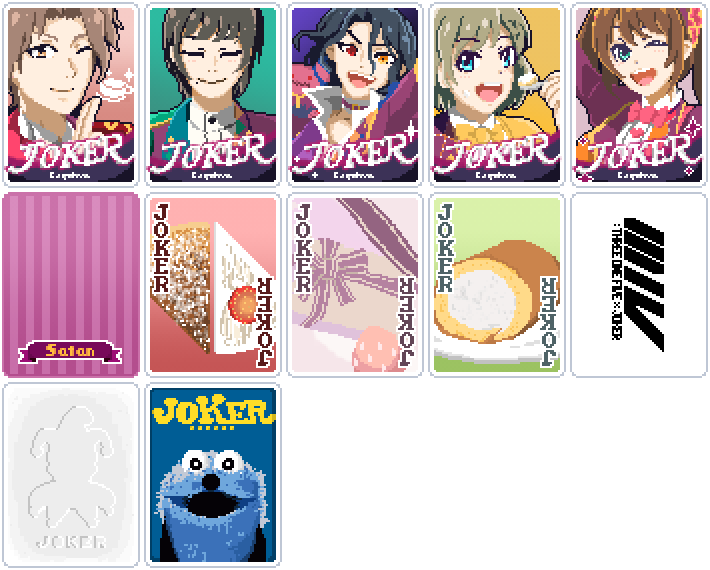
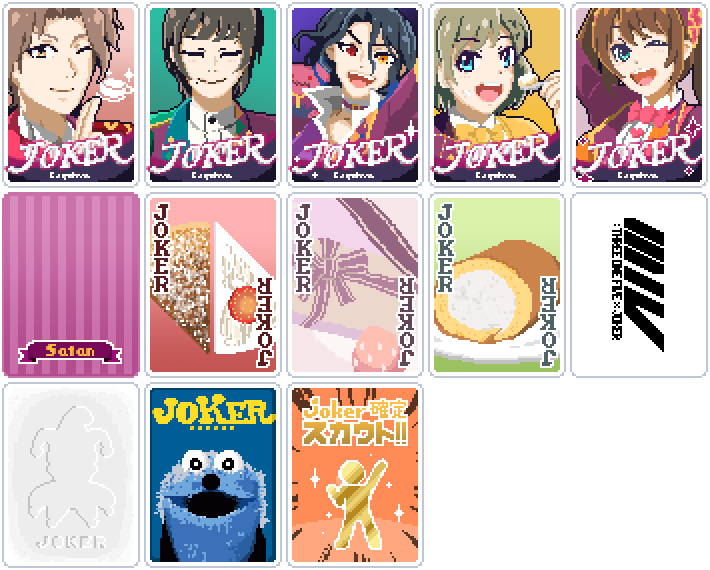
Add Goldpeople to exclude Commons from native Buffoon Packs

Changed region(s): [[0.4028, 0.6561, 0.5887, 1.0]]

diff --git a/tests/release.py b/tests/release.py
@@ -26,7 +26,7 @@ with tempfile.TemporaryDirectory(prefix='cafetro-release-') as directory:
     with ZipFile(archive) as package:
         assert package.testzip() is None
         paths = package.namelist()
-        assert len(paths) == len(set(paths)) == 33 + len(optional)
+        assert len(paths) == len(set(paths)) == 35 + len(optional)
         assert all(path.startswith('Cafetro/') and '..' not in Path(path).parts for path in paths)
         assert not any(part in {'art', 'docs', 'tests', 'tools', 'previews', '__pycache__'}
                        for path in paths for part in Path(path).parts)
@@ -64,7 +64,7 @@ with tempfile.TemporaryDirectory(prefix='cafetro-release-') as directory:
         assert(registered.challenges.finale:unlocked() == false)
     ''')
     definitions = lua.globals().registered
-    assert len(list(definitions.jokers.items())) == 12
+    assert len(list(definitions.jokers.items())) == 13
     assert len(list(definitions.challenges.items())) == 6
     assert len(list(definitions.skins.items())) == 4
     for _, atlas in definitions.atlases.items():

diff --git a/tests/run.py b/tests/run.py
@@ -28,7 +28,7 @@ for directory in (ROOT, TESTS):
     for path in directory.rglob('*.lua'):
         syntax.execute('assert(loadfile(...))', str(path))
 print('Lua 5.1 syntax: all runtime and test files passed')
-for name in ('contracts.lua', 'cake_set.lua', 'chocolate_spacial.lua', 'challenges.lua', 'deck_skins.lua'):
+for name in ('contracts.lua', 'cake_set.lua', 'goldpeople.lua', 'chocolate_spacial.lua', 'challenges.lua', 'deck_skins.lua'):
     run_lua(name)
 
 metadata = json.loads((ROOT / 'Cafetro.json').read_text(encoding='utf-8'))
@@ -36,7 +36,7 @@ assert metadata['name'] == 'Cafetro!'
 assert metadata['id'] == 'CafeParade' and metadata['prefix'] == 'cp'
 assert (ROOT / metadata['main_file']).is_file()
 palette = json.loads((PROJECT / 'art/COLOR_PALETTE.json').read_text(encoding='utf-8'))
-assert len(palette['jokers']) == 12
+assert len(palette['jokers']) == 13
 columns = palette['atlas_columns']
 assert columns == 5
 for index, spec in enumerate(palette['jokers']):

diff --git a/tools/build_release.py b/tools/build_release.py
@@ -10,7 +10,7 @@ from zipfile import ZIP_DEFLATED, ZipFile, ZipInfo
 ROOT = Path(__file__).resolve().parents[1]
 RUNTIME_FILES = (
     'Cafetro.json', 'main.lua', 'config.lua', 'common.lua', 'badges.lua',
-    'cake_set.lua', 'deck_skins.lua', 'README.txt',
+    'cake_set.lua', 'goldpeople.lua', 'deck_skins.lua', 'README.txt',
     'challenges/member_challenges.lua',
     'localization/ja.lua', 'localization/en-us.lua',
 )

diff --git a/docs/TEST_PLAN.md b/docs/TEST_PLAN.md
@@ -5,29 +5,31 @@
 ## 自動検証
 
 - 全ランタイム・fixture・テストのLua 5.1構文。
-- 612件: ジョーカー12種の登録・能力・コピー・再発動・成長演出・状態復元・サタンの枠・日英説明。開発用のお試しライブが通常登録されないことも確認。
+- 627件: ジョーカー13種の登録・能力・コピー・再発動・成長演出・状態復元・サタンの枠・日英説明。開発用のお試しライブが通常登録されないことも確認。
 - 咲の左端が得点対象外・得点対象が空／未提供なら変化・演出・回数消費なし。同じブラインドの次の有効なハンドで発動でき、得点対象の配列順が変わってもプレイした左端を選ぶことを確認。
 - 神谷の同一ブラインド内4ハンド連続報酬、重複評価・コピー・旧セーブ移行、失敗したタロット抽選・満杯・可変確率を確認。サタンの0〜5人時のX2.5〜X3.75、人数減少後と旧成長値の保持、赤枠と末尾の現在値を日英で確認。
 - エンボスの全標準強化・シール／エディションのみの除外・再発動・コピー、スンスンの6限定・得点対象との一致・ストーン除外・コピー・非得点領域の除外、日英の最終行の非公式表記を確認。
 - 162件: ケーキセットのワンペア限定・スート制限だけの解除と復帰、他の無効化原因との共存。
+- 422件: 金人間の標準道化師パック4種限定・MODパック／ショップ除外、所持・売却・デバフ・複数所持、5:1の重み再正規化、重み補正・追加レアリティ・object_weights、禁止・重複・Showman・プールの使い回し、候補枯渇時の非コモン補充と失敗時の禁止状態復元を確認。
 - 140件: Chocolate Spacialの生成条件・容量・予約枠・複数所持とコピー。
 - 401件: ソロお題5種＋最終お題の初期所持と制約、クリア全32通り、プロフィール分離、5つ目のクリア直後の解放、日英ルール、初期6枠。
 - MOD説明の日英ローカライズと複数行、生成・作者クレジット、5人＋サタンだけのCafeParadeカテゴリ、ほかのカードとMOD一覧のCafetro!表記を確認。
 - スキン4スート・2配色、画像全52セル。統合元のトランプ4枚をSHA-256で照合。
 - nearest/lanczos、1x/2xのアトラス全画素・透明度・サタン前景・MODアイコン。配布する追跡済み画像とnearest再生成結果も一致。
-- 配布ZIPの33ファイル、CRC、原稿・テスト・資料・仮プレビューの除外、SHA-256、再現可能なZIP内容、必要ファイル欠落時の失敗。
-- **展開した配布ZIPだけ**を読み、ジョーカー12種・お題6種・スキン4種と全アトラスを登録。内部IDを保持し、追加の開発ファイルに依存しないことを確認。
+- 配布ZIPの35ファイル、CRC、原稿・テスト・資料・仮プレビューの除外、SHA-256、再現可能なZIP内容、必要ファイル欠落時の失敗。
+- **展開した配布ZIPだけ**を読み、ジョーカー13種・お題6種・スキン4種と全アトラスを登録。内部IDを保持し、追加の開発ファイルに依存しないことを確認。
 - 作者のREADME.txtが必ず同梱され、旧SAKI_CARDS_NOTICE.txtが入らないことを確認。追加のMarkdown READMEも同梱できる。
 
-ロジックは合計1,315アサーション。モックはゲームの描画・セーブ形式・Steamoddedディスパッチ全体を再現しません。ZIPの読み込み確認も、実ゲーム起動の代用ではありません。
+ロジックは合計1,752アサーション。モックはゲームの描画・セーブ形式・Steamoddedディスパッチ全体を再現しません。ZIPの読み込み確認も、実ゲーム起動の代用ではありません。
 
 ## ユーザー側での実ゲーム確認
 
-1. 旧版と二重導入せず、`Cafetro` フォルダで起動。表示名Cafetro!、新アイコン、ジョーカー12枚、日英の説明・作者表記を確認。
+1. 旧版と二重導入せず、`Cafetro` フォルダで起動。表示名Cafetro!、新アイコン、ジョーカー13枚、日英の説明・作者表記を確認。
 2. 通常ランと既存セーブを確認。内部ID・prefix・カードキーは維持しているが、実際の保存形式との互換はこの環境では未確認。
 3. 咲の左端・未強化・得点対象限定Makeup!→ワイルド→得点、東雲の得点後成長、ケーキセットのスート制限解除、生成・再発動・サタンの枠を確認。
 4. ソロ5種の開始状態と制限、同じプロフィールで5種クリアしたときの最終お題解放、再起動・別プロフィールでの状態を確認。
 5. 最終お題の6人・6枠・2ハンド・1ディスカード・要求スコア・報酬制限と、クリア可能性・難易度を確認。
-6. スキンの通常色／ハイコントラスト、1x／2x、設定保存と標準スキンへの復帰を確認。
+6. 金人間を所持して通常・ジャンボ・メガの道化師パックを開き、コモンが出ないことを確認。売却後の通常抽選、他MODパック・ショップの抽選、日英の短い説明文も確認。
+7. スキンの通常色／ハイコントラスト、1x／2x、設定保存と標準スキンへの復帰を確認。
 
 旧版の検証記録は `history/TEST_RESULTS.md` に保存しています。

diff --git a/docs/CARD_SPEC.md b/docs/CARD_SPEC.md
@@ -3,7 +3,7 @@
 現行の数値は `Cafetro/config.lua` に集約する。v1.1.0では依頼に基づき神谷とサタンを上方調整。比較資料と判断理由は `BALANCE_NOTES.md` を参照。
 
 ## 共通定義
-- 追加するカードは `kamiya` / `shinonome` / `aslan` / `makio` / `saki` / `satan` / `cake_set` / `chocolate_spacial` / `plain_cakeroll` / `three_one_five` / `embossing` / `sunsun` の12種。表示名 `Cafetro!`、内部MOD ID `CafeParade`。内部IDの完全形はSteamoddedのprefix規則に従って衝突しないものにする。
+- 追加するカードは `kamiya` / `shinonome` / `aslan` / `makio` / `saki` / `satan` / `cake_set` / `chocolate_spacial` / `plain_cakeroll` / `three_one_five` / `embossing` / `sunsun` / `goldpeople` の13種。表示名 `Cafetro!`、内部MOD ID `CafeParade`。内部IDの完全形はSteamoddedのprefix規則に従って衝突しないものにする。
 - 「Café Paradeメンバー」は **神谷・東雲・アスラン・巻緒・咲の5種のみ**。サタンは6枚目だがメンバー数には数えない。異なるメンバーを数えるときは種類ごとに最大1、同名2枚を所持しても1人。
 - 「所持している」はジョーカー領域に存在する有効（非debuff）のカードを意味する。Blueprint / Brainstormによる能力コピーは所持人数を増やさない。デッキにカードがあってもジョーカー領域になければ対象外。
 - 「得点したカード」はスコア計算に参加したカード。捨て札、得点に不参加の手札、手札に残るスチールカード等は対象外。
@@ -147,3 +147,14 @@
 v1.2.0は原作のEven Steven／Hack／Hanging Chadと同様、カードの得点ごとの効果と標準の追加再発動を使う。独自の得点ループや追加の補足ツールチップは設けない。
 
 表記参照: 原作の[日本語localization](https://github.com/Jofr3/balatro-source/blob/main/localization/ja.lua)および[英語localization](https://github.com/Jofr3/balatro-source/blob/main/localization/en-us.lua)のEven Steven・Hack・Hanging Chad（公開再掲）。実機での文字の収まりは未確認。
+
+## 13. 金人間 / Goldpeople
+
+- レア・$8。画像は `art/source/goldpeople.png`（アップロードされたGoldpeople_joker.pngと同一）。
+- 所持中、原作の道化師パック4種（`p_buffoon_normal_1/2`、`p_buffoon_jumbo_1`、`p_buffoon_mega_1`）の生成からコモンを除外。パックのkindや表示名では判定せず、他MODのパックは対象外。ショップなど他の生成領域も変更しない。
+- 売却・除去・デバフ中は通常の抽選。複数所持で重複適用せず、Blueprint非対応。サタンのメンバーに数えない。
+- 残るレアリティの重みを再正規化し、通常はアンコモン:レア=5:1。重みが正の追加レアリティ・MODの重み補正にも対応。通常の抽選ではレジェンダリーを追加しない。
+- エンジンのプールを通して禁止・アンロック・重複・in_poolを尊重。全ての候補が尽きた例外時は、原作の固定ジョーカーフォールバックと同様、アンコモンのJoker Stencilを生成してコモンの再混入を防ぐ（通常抽選外の固定補充は重複・禁止制約に優先）。
+- 日英の説明には主効果のみを記載し、他MODのパックに関する補足は表示しない。日本語のパック名は原作の「道化師パック」に合わせる。
+
+API参照: Steamodded 26.1002.0（`af0fdb1eb2c9e191262c128bc88bbc4da991e12d`）の `src/utils.lua`（create_card / poll_rarity）、`src/utils/weights.lua`（poll_object）、`src/game_object.lua`（標準Buffoon定義）、`lovely/booster.toml`（OPENED_BOOSTER）、`lovely/pool.toml`（プール条件と枯渇時の補充）。グローバルな抽選重みは変更せず、標準パック内のカード生成の引数だけを複製・変更する。

diff --git a/docs/RELEASING.md b/docs/RELEASING.md
@@ -15,7 +15,7 @@
 3. 画像を更新したときだけ `python tools/build_atlas.py --filter nearest` を実行する。
 4. `python tests/run.py` で能力・画像・配布ZIPを検証する。
 5. `python tools/build_release.py` を実行する。`dist/Cafetro-v1.2.0.zip` と `dist/Cafetro-v1.2.0.sha256` を生成する。バージョン部分はメタデータに従う。
-6. ZIPの最上位は `Cafetro/` ひとつで、その直下に `Cafetro.json` と `main.lua` がある。現在はREADME.txtを含む必要な33ファイルのみ。
+6. ZIPの最上位は `Cafetro/` ひとつで、その直下に `Cafetro.json` と `main.lua` がある。現在はREADME.txtを含む必要な35ファイルのみ。
 7. GitHub Releaseの下書きにZIPとSHA-256を添付する。READMEを追加・変更したら再ビルドし、両方の添付を更新する。
 8. 実ゲーム確認・README・リリース説明の準備ができたら下書きを公開する。
 

diff --git a/docs/CHANGELOG.md b/docs/CHANGELOG.md
@@ -5,6 +5,7 @@
 正式版v1.0.0以降の変更を蓄積する欄です。次の正式バージョン番号は、リリース指示時に確定します。現時点ではv1.1.0・v1.2.0の候補下書きに含まれています。
 
 - エンボスジョーカー（コモン）：得点する強化カードごとに倍率+4。再発動にも適用。
+- 金人間 / Goldpeople（レア・$8）：所持中、原作の道化師パックからコモンを除外。他MODのパックやショップには適用しない。
 - スンスン（アンコモン）：得点する6を2回追加で再発動。説明末尾に非公式ファンアート表記。
 - ジョーカー画像を5列×3段へ拡張。
 - 神谷幸広のブラインドごとの発動制限を撤廃。条件を満たすハンドごとに$3とタロット抽選。

diff --git a/docs/ASSET_GUIDE.md b/docs/ASSET_GUIDE.md
@@ -17,7 +17,7 @@ python tools/build_atlas.py --filter lanczos
 
 ## 5列のアトラス
 
-カード数に応じて段数を増やします。現在は12枚・5列×3段で、1xが355×285、2xが710×570。1セルは71×95／142×190です。
+カード数に応じて段数を増やします。現在は13枚・5列×3段で、1xが355×285、2xが710×570。1セルは71×95／142×190です。
 
 |ID|x|y|
 |---|---:|---:|
@@ -33,6 +33,7 @@ python tools/build_atlas.py --filter lanczos
 |three_one_five|4|1|
 |embossing|0|2|
 |sunsun|1|2|
+|goldpeople|2|2|
 
 画像の順序・列数は `art/COLOR_PALETTE.json`、ゲームでの登録は `Cafetro/main.lua` にあります。追加時は両方をそろえ、テストで全座標と全画素を確認します。
 

diff --git a/docs/DEVELOPMENT.md b/docs/DEVELOPMENT.md
@@ -4,7 +4,7 @@
 
 ## 構成
 
-- `Cafetro/`: 配布するMOD本体。ジョーカー12種、ソロお題5種＋最終お題、水嶋咲のトランプスキン。
+- `Cafetro/`: 配布するMOD本体。ジョーカー13種、ソロお題5種＋最終お題、水嶋咲のトランプスキン。
 - `art/source/`: ジョーカーとアイコンの原稿。`art/COLOR_PALETTE.json` に画像の順序・座標を記載。
 - `tools/`: アトラス生成とリリースZIP作成。
 - `tests/`: Lua 5.1の能力検証、画像・配布パッケージ検証。`fixtures/practice.lua` は旧お試しライブの検証データ。
